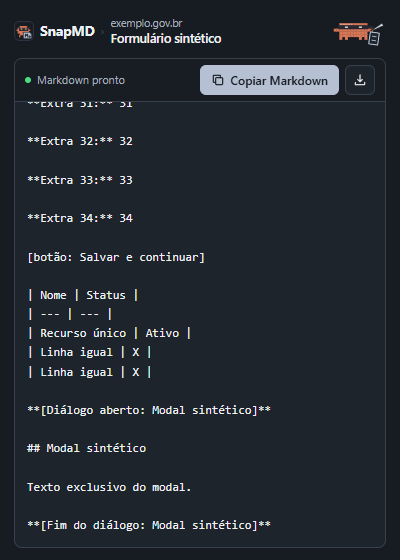
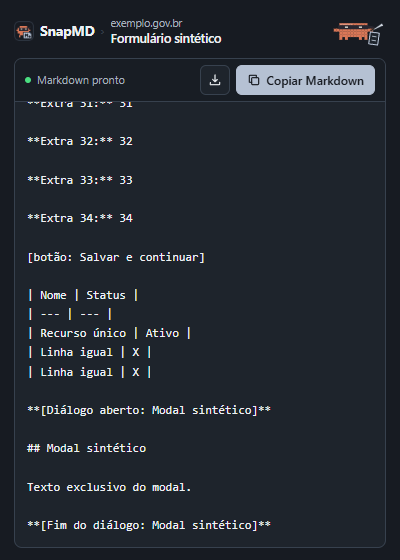
fix(ui): posiciona botao de download antes de copiar markdown na toolbar

Changed region(s): [[0.48, 0.0911, 0.96, 0.1821]]

diff --git a/popup.html b/popup.html
@@ -1,1 +1,1 @@
-<!doctype html><html lang="pt-BR"><head><meta charset="utf-8"><meta name="viewport" content="width=device-width,initial-scale=1"><title>SnapMD</title><link rel="stylesheet" href="popup.css"></head><body><main class="popup"><header class="header-bar"><div class="context-group"><div class="brand"><img src="icons/icon-48.png" width="20" height="20" alt="" aria-hidden="true"><span>SnapMD</span></div><span class="sep" aria-hidden="true">›</span><div class="page-meta"><span class="source" id="source">Lendo página…</span><h1 id="pageTitle" class="page-title">Capturando conteúdo</h1></div></div><div class="pet-stage"><img class="pet" src="assets/ladino.svg" alt="Ladino do Hero Journey"><span class="paper" aria-hidden="true"></span><span class="leaf" aria-hidden="true"></span><span class="leaf" aria-hidden="true"></span><span class="leaf" aria-hidden="true"></span></div></header><div class="code-card"><div class="card-toolbar"><div class="status-wrap"><span class="status-dot" aria-hidden="true"></span><p id="status" class="status" role="status" aria-live="polite"></p></div><div class="actions"><button class="primary" id="btnCopy" disabled title="Copiar Markdown (Ctrl+Enter)"><svg aria-hidden="true" viewBox="0 0 24 24" fill="none" stroke="currentColor" stroke-width="2" stroke-linecap="round" stroke-linejoin="round"><rect x="8" y="8" width="12" height="12" rx="2"/><path d="M16 8V4H4v12h4"/></svg><span>Copiar Markdown</span></button><button class="secondary icon-button" id="btnDownload" disabled aria-label="Baixar .md" title="Baixar .md (Ctrl+S)"><svg aria-hidden="true" viewBox="0 0 24 24" fill="none" stroke="currentColor" stroke-width="2" stroke-linecap="round" stroke-linejoin="round"><path d="M12 3v12m-4-4 4 4 4-4M4 16v4h16v-4"/></svg></button></div></div><pre id="markdownPreview" aria-label="Markdown da página" tabindex="0"></pre></div><section class="error-panel" id="errorState" hidden><h2 id="errorTitle">Não foi possível capturar</h2><p id="errorDescription"></p><button id="btnRetry">Tentar novamente</button></section></main><script src="page-reader.js"></script><script src="popup.js"></script></body></html>
+<!doctype html><html lang="pt-BR"><head><meta charset="utf-8"><meta name="viewport" content="width=device-width,initial-scale=1"><title>SnapMD</title><link rel="stylesheet" href="popup.css"></head><body><main class="popup"><header class="header-bar"><div class="context-group"><div class="brand"><img src="icons/icon-48.png" width="20" height="20" alt="" aria-hidden="true"><span>SnapMD</span></div><span class="sep" aria-hidden="true">›</span><div class="page-meta"><span class="source" id="source">Lendo página…</span><h1 id="pageTitle" class="page-title">Capturando conteúdo</h1></div></div><div class="pet-stage"><img class="pet" src="assets/ladino.svg" alt="Ladino do Hero Journey"><span class="paper" aria-hidden="true"></span><span class="leaf" aria-hidden="true"></span><span class="leaf" aria-hidden="true"></span><span class="leaf" aria-hidden="true"></span></div></header><div class="code-card"><div class="card-toolbar"><div class="status-wrap"><span class="status-dot" aria-hidden="true"></span><p id="status" class="status" role="status" aria-live="polite"></p></div><div class="actions"><button class="secondary icon-button" id="btnDownload" disabled aria-label="Baixar .md" title="Baixar .md (Ctrl+S)"><svg aria-hidden="true" viewBox="0 0 24 24" fill="none" stroke="currentColor" stroke-width="2" stroke-linecap="round" stroke-linejoin="round"><path d="M12 3v12m-4-4 4 4 4-4M4 16v4h16v-4"/></svg></button><button class="primary" id="btnCopy" disabled title="Copiar Markdown (Ctrl+Enter)"><svg aria-hidden="true" viewBox="0 0 24 24" fill="none" stroke="currentColor" stroke-width="2" stroke-linecap="round" stroke-linejoin="round"><rect x="8" y="8" width="12" height="12" rx="2"/><path d="M16 8V4H4v12h4"/></svg><span>Copiar Markdown</span></button></div></div><pre id="markdownPreview" aria-label="Markdown da página" tabindex="0"></pre></div><section class="error-panel" id="errorState" hidden><h2 id="errorTitle">Não foi possível capturar</h2><p id="errorDescription"></p><button id="btnRetry">Tentar novamente</button></section></main><script src="page-reader.js"></script><script src="popup.js"></script></body></html>
